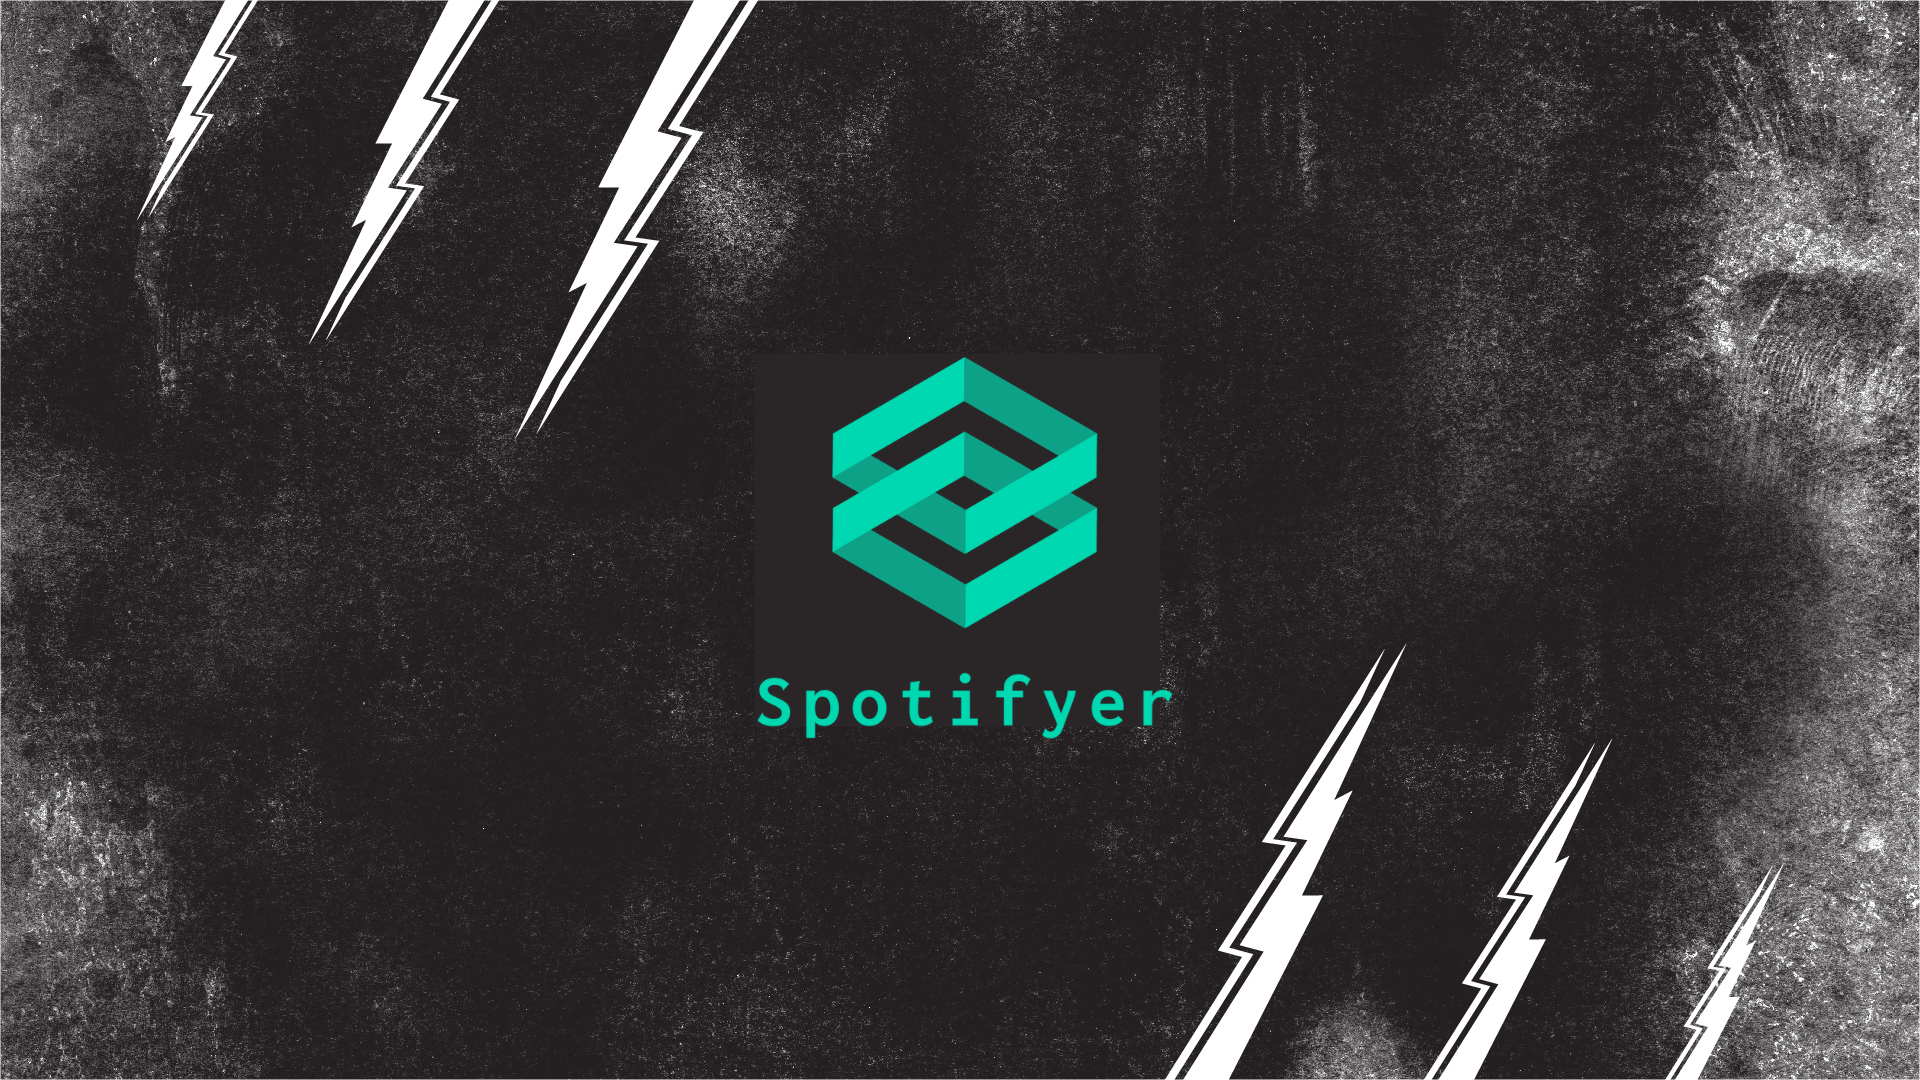
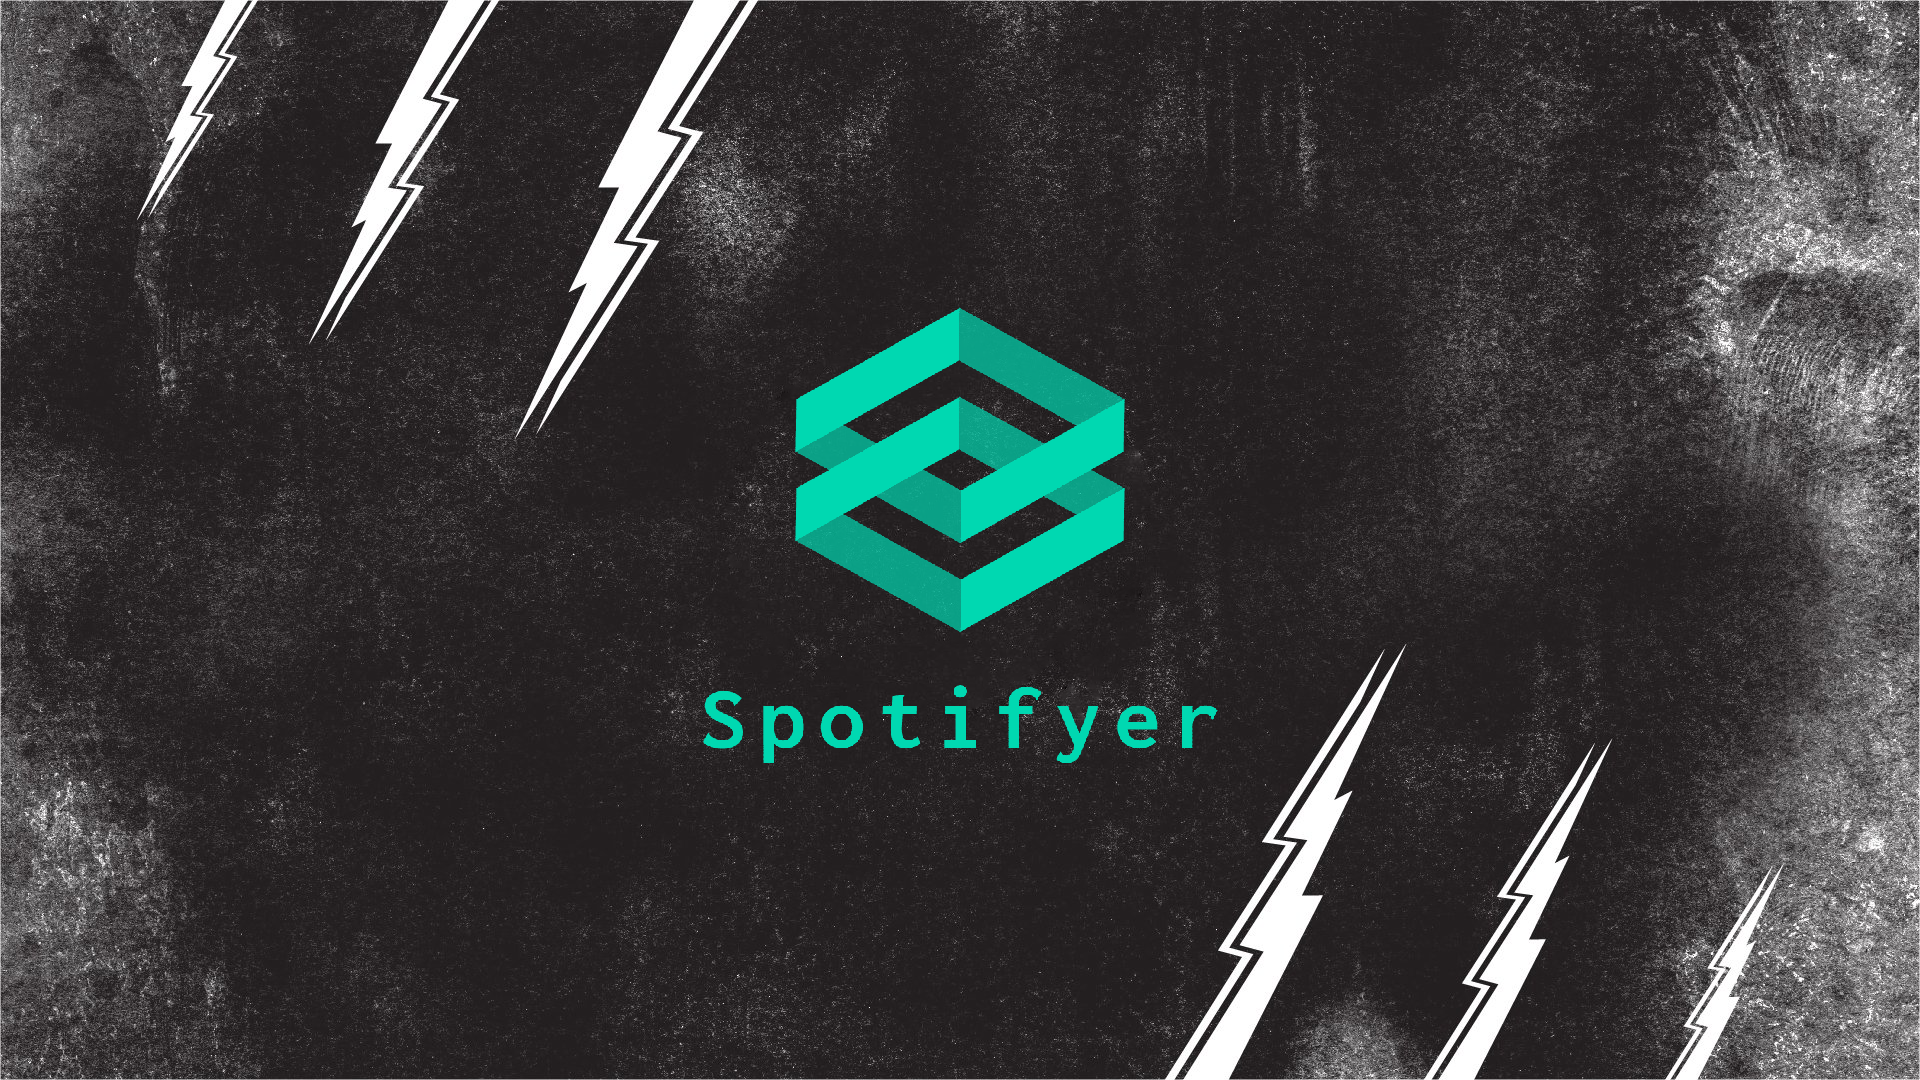
Rebranding
-Image of stages changed
-Rebranded the site
-Added release date for stage 1
-small tweaks in the code

Changed region(s): [[0.4062, 0.275, 0.5938, 0.5806], [0.3438, 0.6111, 0.625, 0.7028]]

diff --git a/Index.html b/Index.html
@@ -6,26 +6,17 @@
   <meta name="viewport" content="width=device-width, initial-scale=1.0">
   <link rel="stylesheet" href="/assets/css/style.css">
   
-  <title>Spotifyer</title>
+  <title>Strackifyer</title>
 </head>
 
 <body>
-  
-  <!-- Rebranding message -->
-  <div class="alert">
-    <span class="closebtn" onclick="this.parentElement.style.display='none';">&times;</span> 
-    <strong>Attention!</strong> <p>The site is rebranding towards a new name and domain.
-      The new name will be strackifyer and everything will soon be moved towards strackifyer.cf, this domain will be closed soon! </p>
-  </div>
-  <!-- Rebranding message -->
-
   <!-- Header -->
   <section id="header">
     <div class="header container">
       <div class="nav-bar">
         <div class="brand">
           <a href="#home">
-            <h2><span>S</span>potify<span>er</span></h2>
+            <h2><span>S</span>trackify<span>er</span></h2>
           </a>
         </div>
         <div class="nav-list">
@@ -50,8 +41,8 @@
     <div class="home container">
       <div>
         <h2>Welkom <span></span></h2>
-        <h1>to spotifyer <span></span></h1>
-        <a href="/stats.html" type="button" class="btnLogin">Log in</a>
+        <h1>to strackifyer <span></span></h1>
+        <a href="/stats.html" type="button" class="btnLogin">More info</a>
       </div>
     </div>
   </section>
@@ -62,7 +53,7 @@
     <div class="features container">
       <div class="feature-top">
         <h2 class="section-title"><span>Features</span></h2>
-        <p>The features below are the future/current features that the site will provide. Spotifyer is a work in progress and is getting worked on.
+        <p>The features below are the future features that the site will provide. Strackifyer is a work in progress and is getting worked on.
           This is my first major project and I will do my best to make the desing and features as good as possible, suggestions are always welcome.
         </p>
       </div>
@@ -103,19 +94,19 @@
   <section id="stages">
     <div class="stages container">
       <div class="stages-header">
-        <h2 class="section-title">Current <span>Stages</span></h2>
+        <h2 class="section-title">Current upcomming <span>stages</span></h2>
       </div>
       <div class="all-stages">
         <div class="stage-item">
           <div class="stage-info">
             <h1>Stage 1</h1>
-            <h2>The start - basic</h2>
+            <h2>The start - basic <span>(Release 17/04/2022)</span></h2>
             <p>Log-in to your spotify and check your top 10 artists,tracks of the last 4 weeks, 6 months and last 12 months.
               You will also be able to see your top 3 albums (beta feature) of the last 4  weeks, 6 months and last 12 months.
               Spotify doesn't provide the data of your top albums, I need to calculate it myself (that's why I add it in as beta, since there could be errors in the beginning).</p>
           </div>
           <div class="stage-img">
-            <img src="./img/img-1.png" alt="img">
+            <img src="./img/Stage-1.png" alt="img">
           </div>
         </div>
         <div class="stage-item">
@@ -126,7 +117,7 @@
               Some more back-end stuff for future implaments.</p>
           </div>
           <div class="stage-img">
-            <img src="./img/img-1.png" alt="img">
+            <img src="./img/Stage-2.png" alt="img">
           </div>
         </div>
         <div class="stage-item">
@@ -136,7 +127,7 @@
             <p>Yeahh you read it, once on stage 3 all "top" stats will go to top 50's :). This is also a stage where I prepare a lot of back-end code for stage 4 :).</p>
           </div>
           <div class="stage-img">
-            <img src="./img/img-1.png" alt="img">
+            <img src="./img/Stage-3.png" alt="img">
           </div>
         </div>
         <div class="stage-item">
@@ -149,7 +140,7 @@
               Once you listin to a specific artist and/or track a lot in a short period it will get the state "hot", this will be a icon that will be displayed in your top lists.</p>
           </div>
           <div class="stage-img">
-            <img src="./img/img-1.png" alt="img">
+            <img src="./img/Stage-4.png" alt="img">
           </div>
         </div>
         <div class="stage-item">
@@ -160,7 +151,7 @@
               This doesn't mean I will stop to support it. I will still think about more feature to add and ofcourse user feedback for more improvements/features.</p>
           </div>
           <div class="stage-img">
-            <img src="./img/img-1.png" alt="img">
+            <img src="./img/Stage-5.png" alt="img">
           </div>
         </div>
         <div class="stage-item">
@@ -170,7 +161,7 @@
             <p>I'm not sure if this is possible, but in this stage I will check out if I can add a system to check other statistics like Youtube music/amazon music/Deezer.</p>
           </div>
           <div class="stage-img">
-            <img src="./img/img-1.png" alt="img">
+            <img src="./img/Stage-6.png" alt="img">
           </div>
         </div>
       </div>
@@ -189,7 +180,7 @@
           <div class="icon"><img src="https://img.icons8.com/cute-clipart/64/000000/twitter.png"/></div>
           <div class="contact-info">
             <h1>Twitter</h1>
-            <h2><a href="https://twitter.com/_Spotifyer_">Main account @Spotifyer</a></h2>
+            <h2><a href="https://twitter.com/strackifyer">Main account @Strackifyer</a></h2>
             <h2><a href="https://twitter.com/_CyberNeon_">Dev account @_CyberNeon_</a></h2>
           </div>
         </div>
@@ -205,7 +196,7 @@
           <div class="icon"><img src="https://img.icons8.com/dusk/64/000000/discord-logo.png"/></div>
           <div class="contact-info">
             <h1>Discord</h1>
-            <h2>TBA: Spotifyer discord</h2>
+            <h2>TBA: Strackifyer discord</h2>
             <h2>DM: CyberNeon#0751</h2>
           </div>
         </div>
@@ -218,9 +209,9 @@
   <section id="footer">
     <div class="footer container">
       <div class="brand">
-        <h3><span>S</span>potif<span>yer</span></h3>
+        <h3><span>S</span>trackify<span>er</span></h3>
       </div>
-      <p>Copyright © 2022 Spotifyer</p>
+      <p>Copyright © 2022 Strackifyer</p>
     </div>
   </section>
   <!-- End Footer -->

diff --git a/stats.html b/stats.html
@@ -6,24 +6,25 @@
   <meta name="viewport" content="width=device-width, initial-scale=1.0">
   <link rel="stylesheet" href="/assets/css/stats.css">
   <script src=""></script>
-  <title>Spotifyer - Stats</title>
+  <title>strackifyer - Stats</title>
 </head>
 
 <body>
   <header>
     <div>
-        <img src="/img/logo_transparent.png" alt="Spotifyer" title="Spotifyer">
+        <img src="/img/logo_transparent.png" alt="strackifyer" title="strackifyer">
     </div>
 </header>
 <main>
     <article>
         <h1>Coming soon! <span></span></h1>
         <div>
-            <p>The first stage is almost there. I'm currently working on the PKCE extension so that everyting is secure.
-               Once that is finshed, I just need to add a calculation for the top 3 album function and then stage 1 is ready to be released.
+            <p>The first stage is almost there. I'm currently working on the <a href="https://oauth.net/2/pkce/">PKCE extension</a> so that everyting is secure.
+               Once that is finshed, I will work on the API data and after that I just need to add a calculation for the top 3 album function and then stage 1 is ready to be released.
+               <br>Release date of stage 1 is 17/04/2022.
                <span></span>
             </p>
-            <p>&mdash; Spotifyer <span></span></p>
+            <p>&mdash; Strackifyer <span></span></p>
         </div>
     </article>
 </main>

diff --git a/assets/css/style.css b/assets/css/style.css
@@ -144,7 +144,7 @@ p {
 }
 #header .nav-list ul li a:hover {
 	color: rgb(20, 220, 80);
-	font-size: 2rem;
+	font-size: 1.75rem;
 	transition: 0.5s;
 }
 #header .hamburger {
@@ -370,6 +370,9 @@ p {
 	font-weight: 500;
 	margin-top: 10px;
 }
+#stages .stage-info h2 span{
+	color: rgb(20, 220, 80);
+}
 #stages .stage-info p {
 	color: white;
 }
@@ -386,8 +389,8 @@ p {
 	top: 0;
 	height: 100%;
 	width: 100%;
-	background-image: linear-gradient(60deg, #29323c 0%, #485563 100%);
-	opacity: 0.7;
+	background-image: linear-gradient(60deg, #29323c 0%, #485563 50%);
+	opacity: 0.25;
 }
 #stages .stage-img img {
 	transition: 0.3s ease transform;
@@ -621,44 +624,3 @@ p {
 	}
 }
 /* End  Media Query For Desktop */
-
-
-/* REBRANDING */
-.alert {
-	padding: 4rem;
-	margin-top: 8rem;
-	background-color: #f44336;
-	color: white;
-	opacity: 1;
-	transition: opacity 0.6s;
-	z-index: 1;
-}
-.alert strong{
-	font-size: 4rem;
-	animation: blinker 1s linear infinite;
-}
-.alert p{
-	font-size: 2.5rem;
-}
-  
-.closebtn {
-	margin-left: 15px;
-	color: white;
-	font-weight: bold;
-	float: right;
-	font-size: 5rem;
-	line-height: 20px;
-	cursor: pointer;
-	transition: 0.3s;
-}
-  
-.closebtn:hover {
-	color: black;
-}
-
-  
-@keyframes blinker {
-	50% {
-	  opacity: 0;
-	}
-}

diff --git a/assets/css/stats.css b/assets/css/stats.css
@@ -4,7 +4,6 @@ body {
     margin: auto;
 }
 img {
-    padding-top: 2rem;
     display: block;
     margin-left: auto;
     margin-right: auto;
